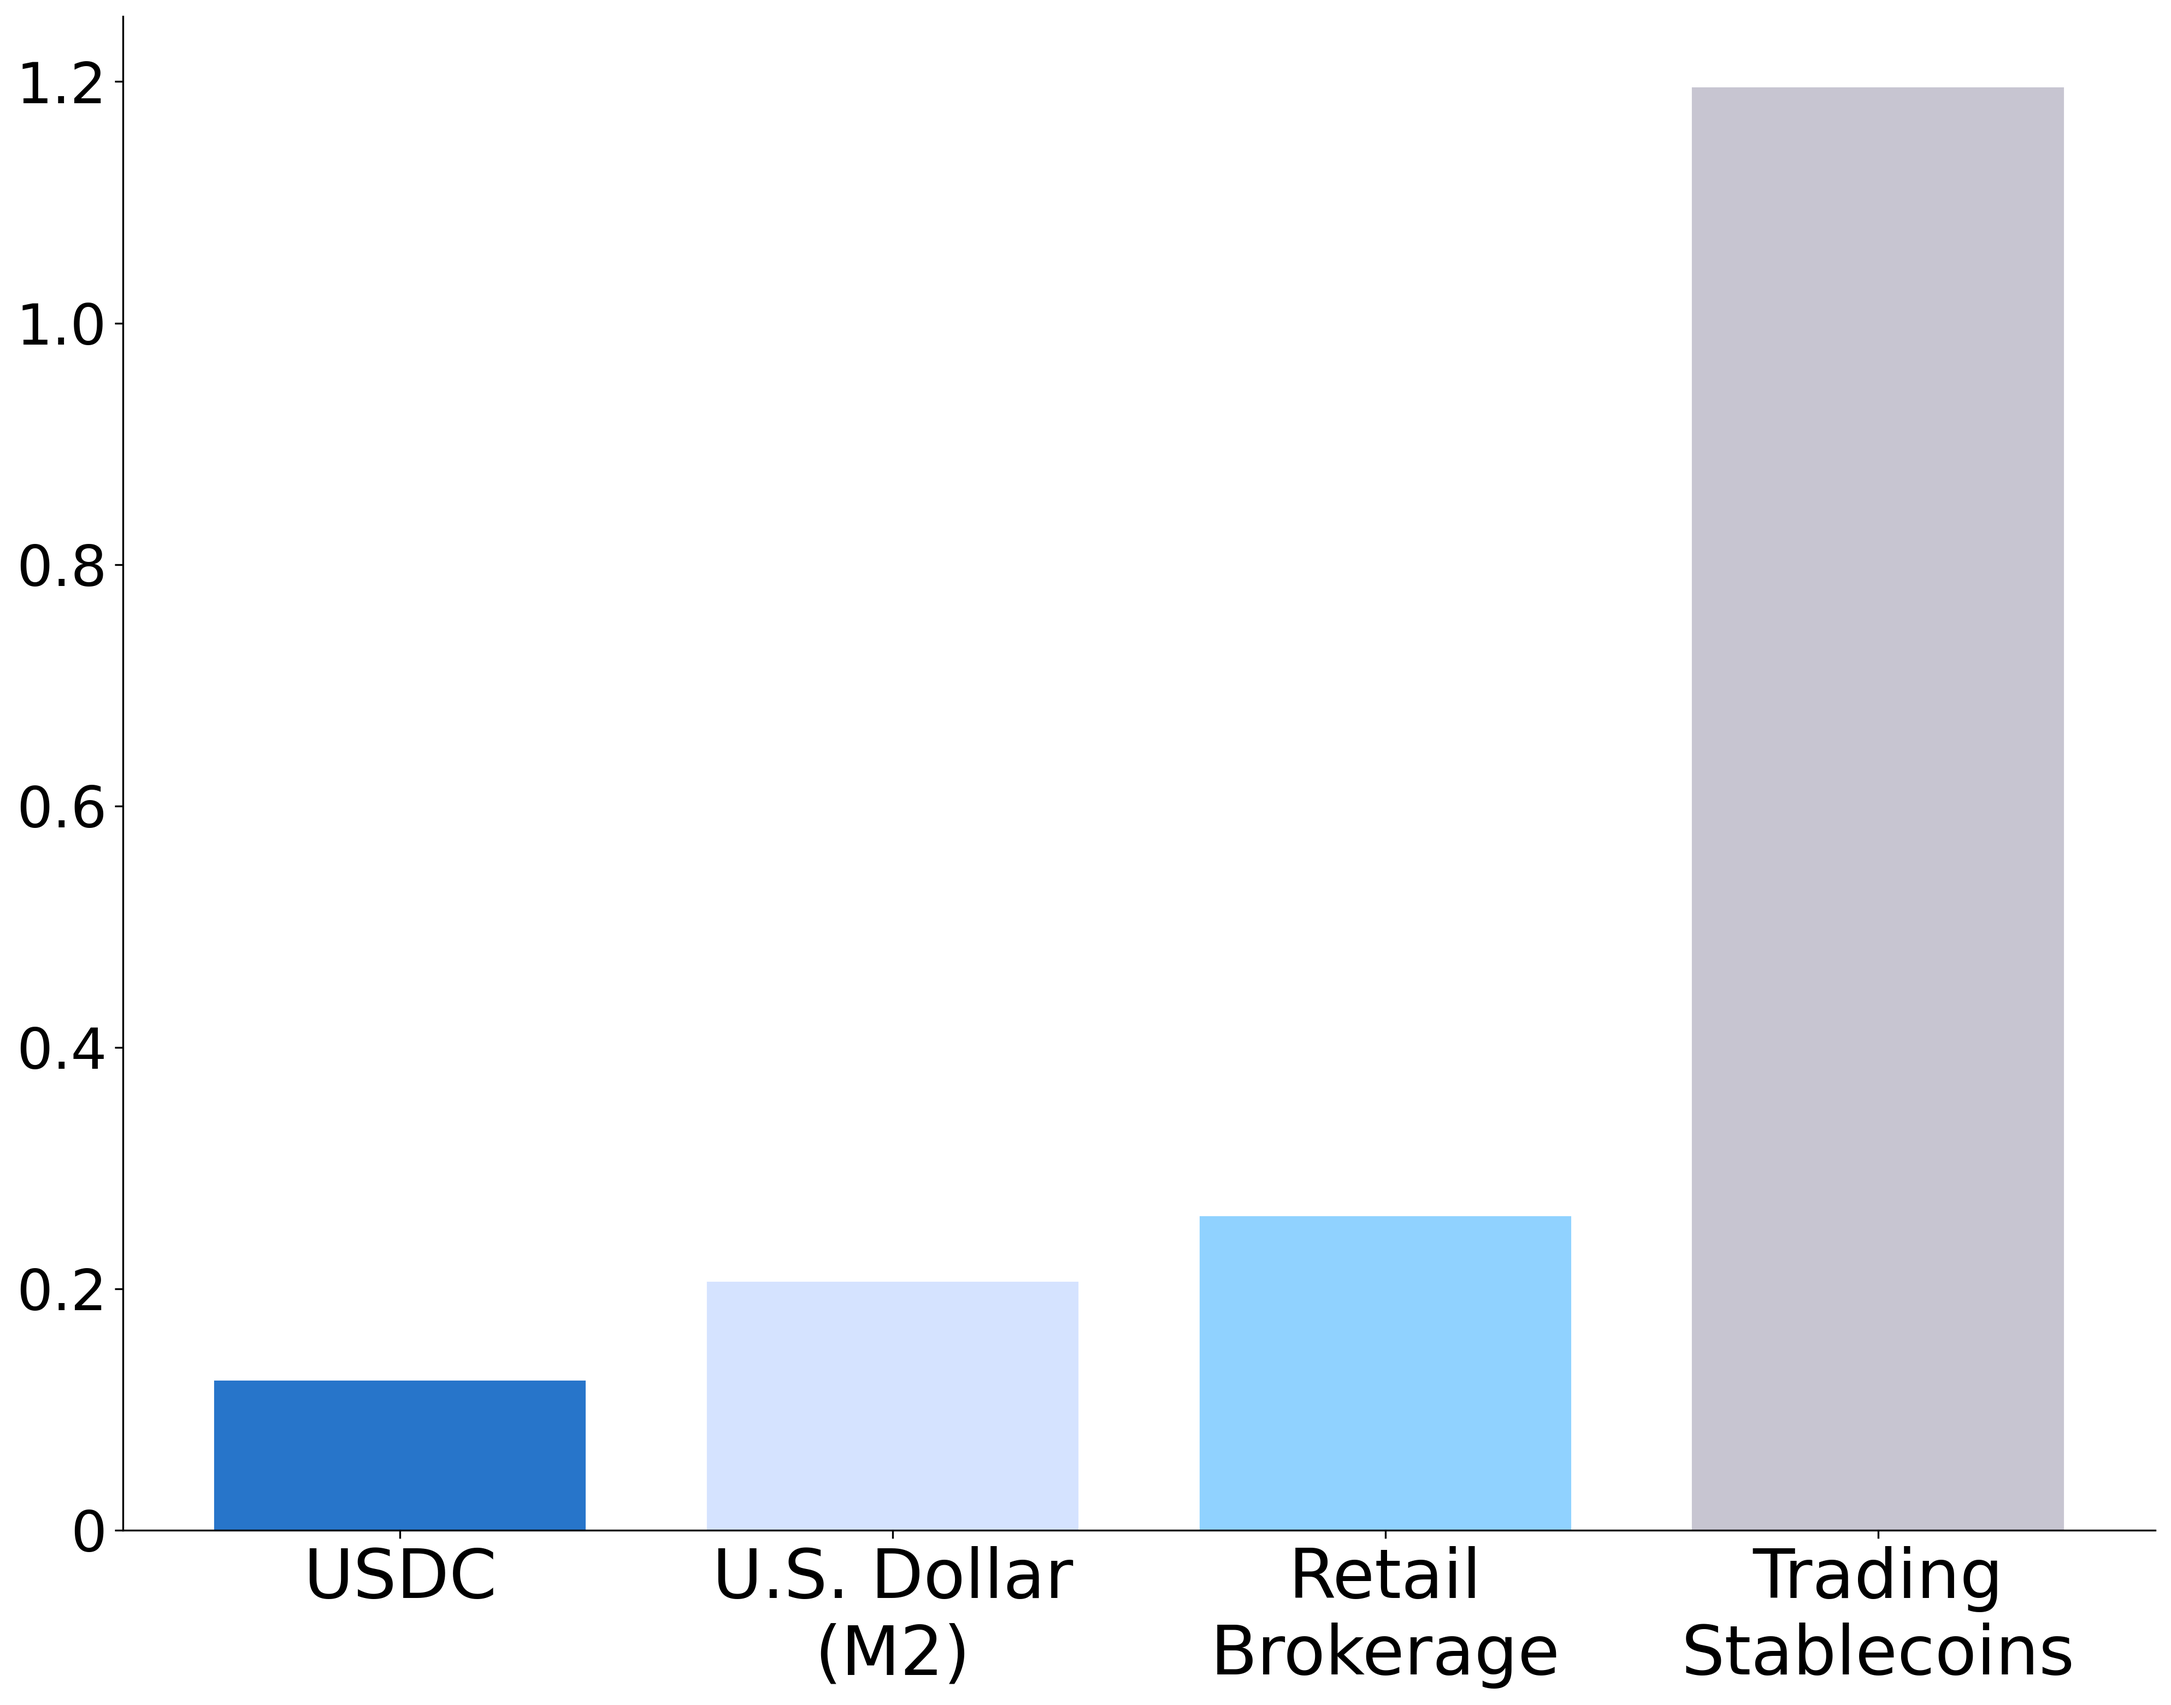
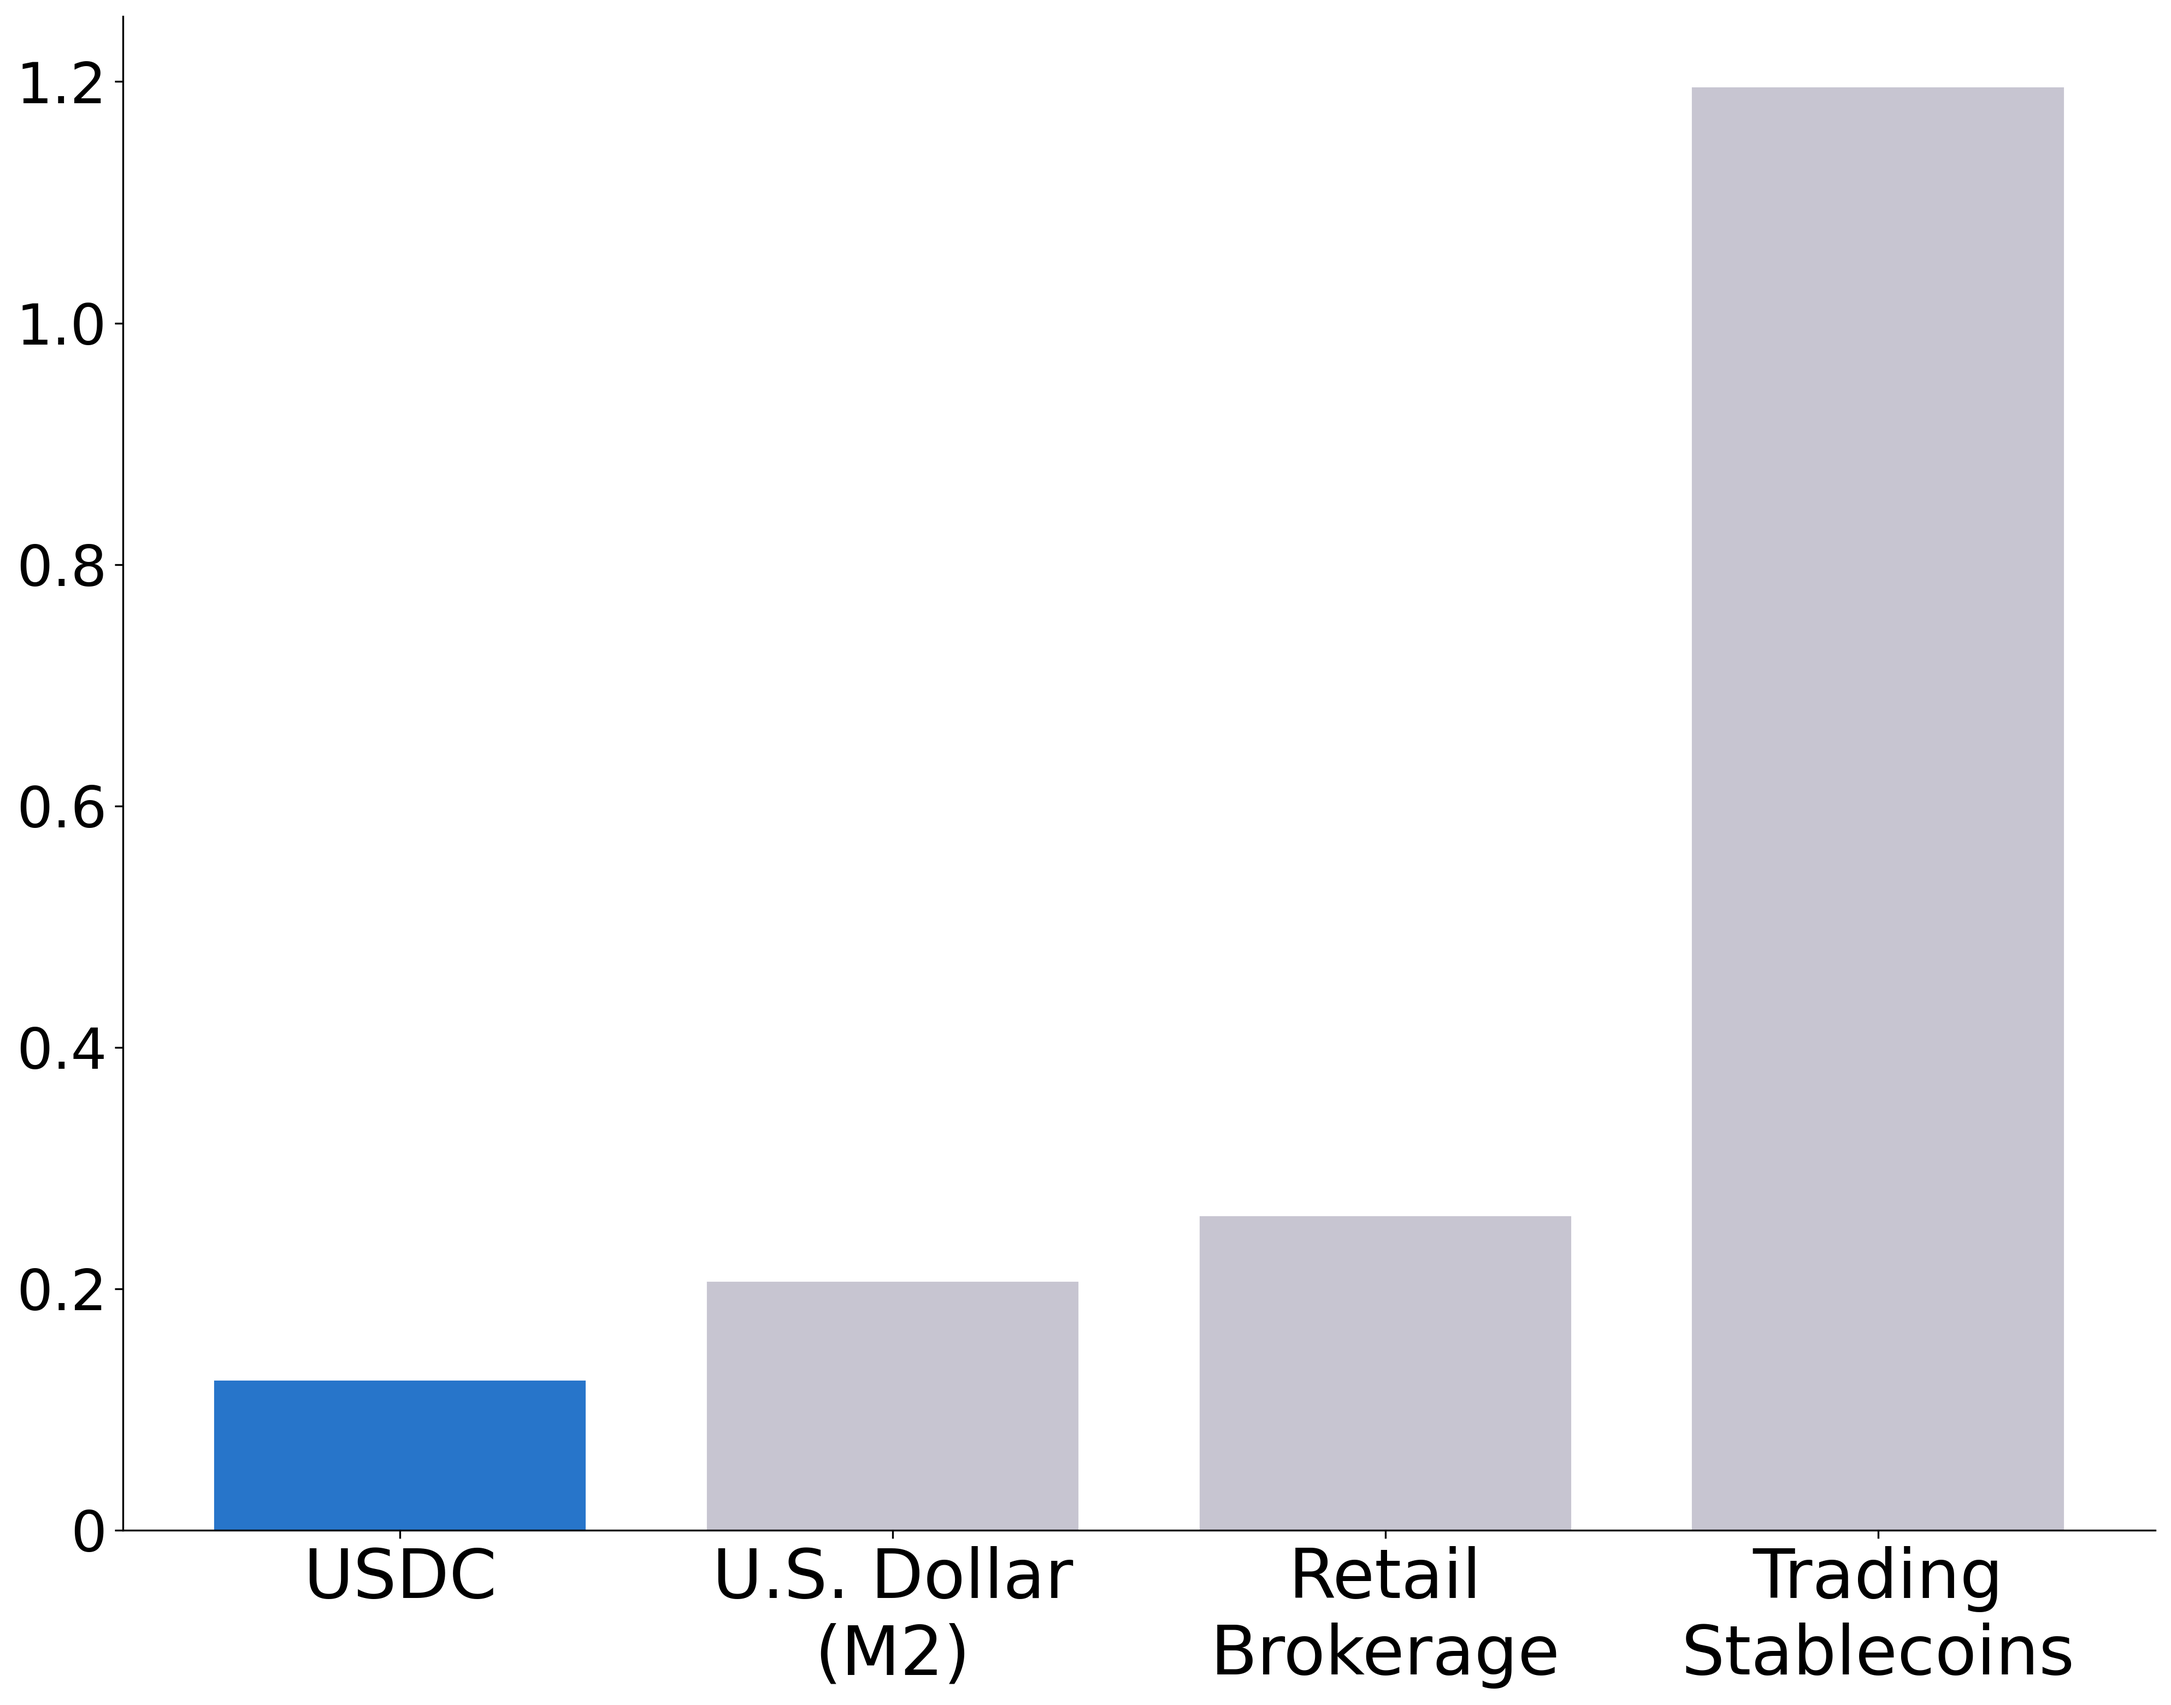
color

Changed region(s): [[0.5304, 0.7146, 0.7489, 0.901], [0.312, 0.7457, 0.4992, 0.901]]

diff --git a/code/figure1_volume_to_circulation.py b/code/figure1_volume_to_circulation.py
@@ -116,8 +116,8 @@ def plot_speculative_ratio(start_date, end_date):
         width=0.75,
     )
     bars[0].set_color("#2775ca")
-    bars[1].set_color("#d5e3ff")
-    bars[2].set_color("#90d2ff")
+    bars[1].set_color("#c7c5d1")
+    bars[2].set_color("#c7c5d1")
     bars[3].set_color("#c7c5d1")
     ax.set_xticklabels(
         ["USDC", "U.S. Dollar\n(M2)", "Retail\nBrokerage", "Trading\nStablecoins"],
